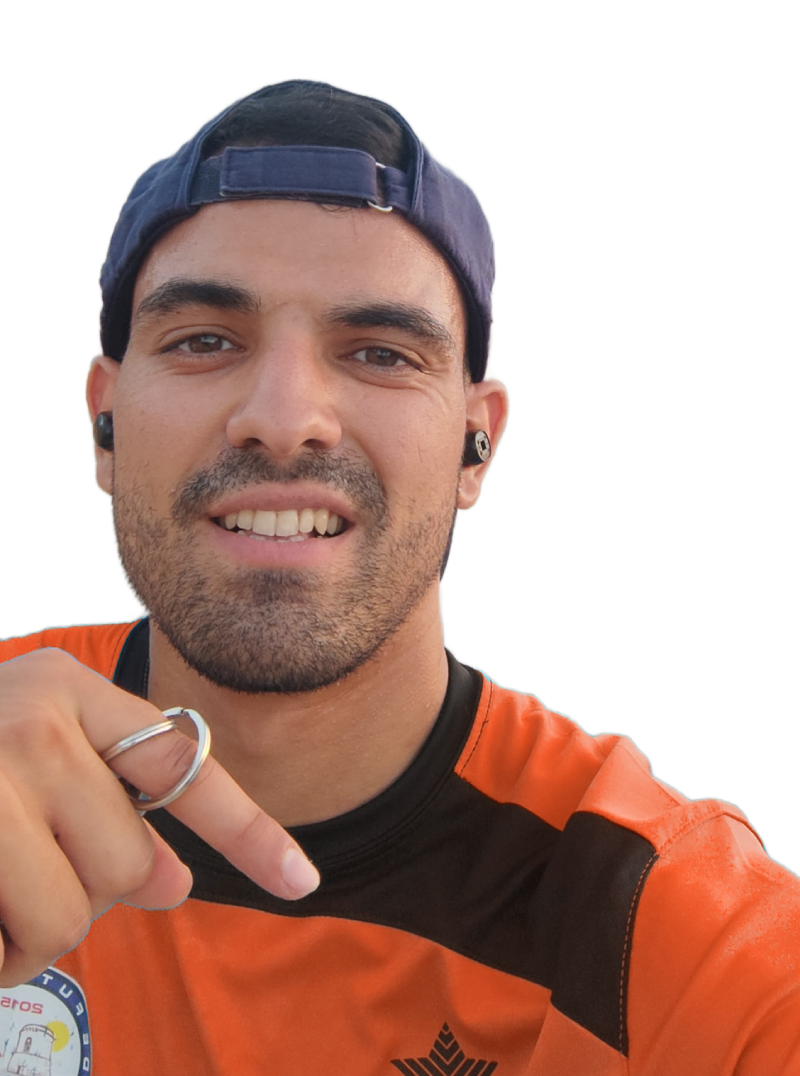
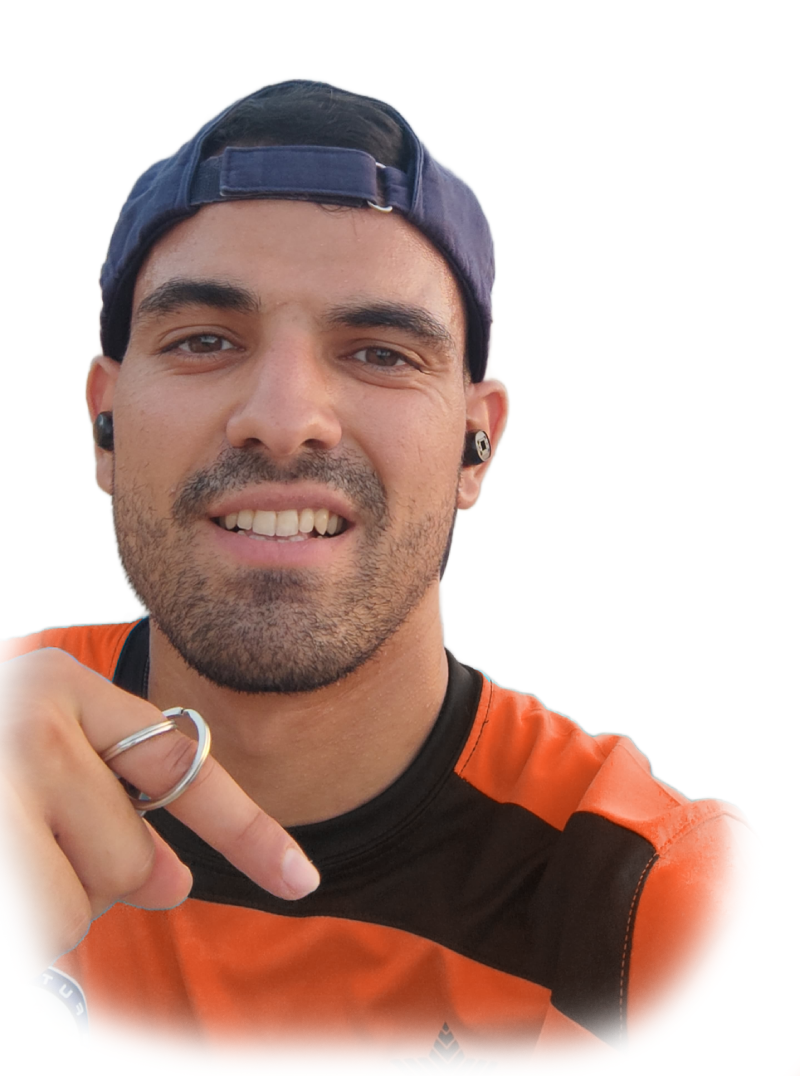
New content

Changed region(s): [[0.0, 0.5827, 1.0, 1.0]]

diff --git a/index.html b/index.html
@@ -224,7 +224,7 @@
 
             <section id="features">
                 <div class="container">
-                    <div class="row gx-5 align-items-center">
+                    <div class="row align-items-center">
                         <div class="text-center my-5">
                             <h2 class="display-5 fw-bolder"><span class="text-gradient d-inline">¿Como canjear el código?</span></h2>
                             <p class="lead fw-light mb-4">

diff --git a/css/styles.css b/css/styles.css
@@ -11594,7 +11594,7 @@ html {
   max-width: 40rem;
 }
 .profile .profile-img {
-  height: 80vw;
+  height: 90vw;
   max-height: 45rem;
   position: absolute;
   bottom: 0;
